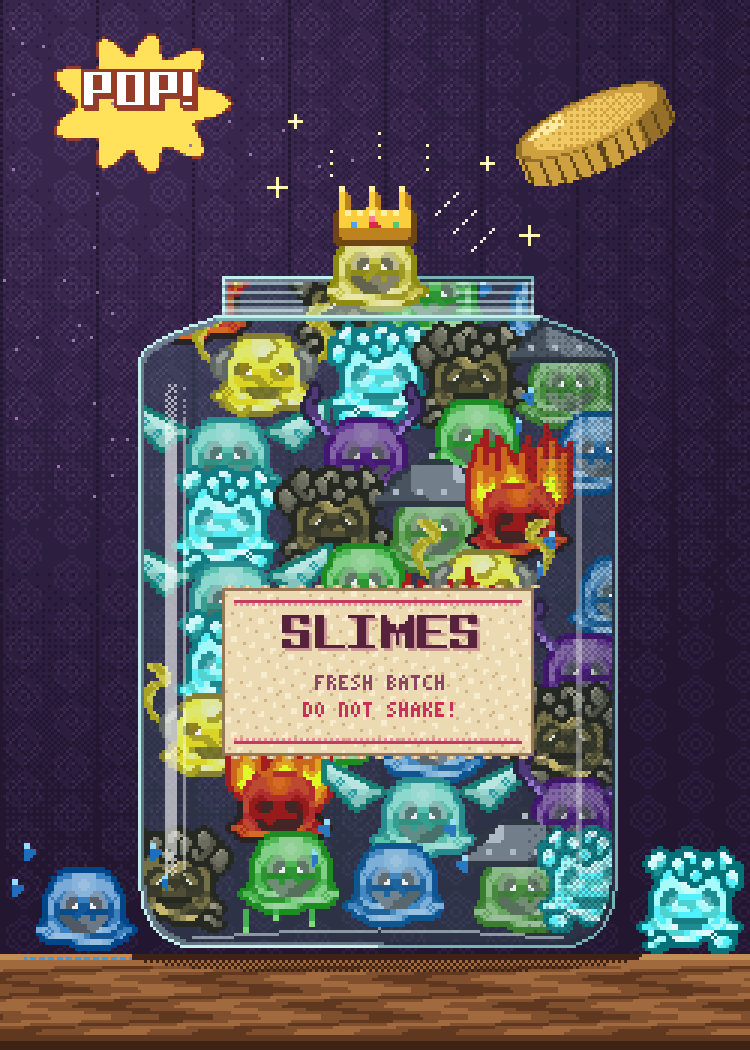
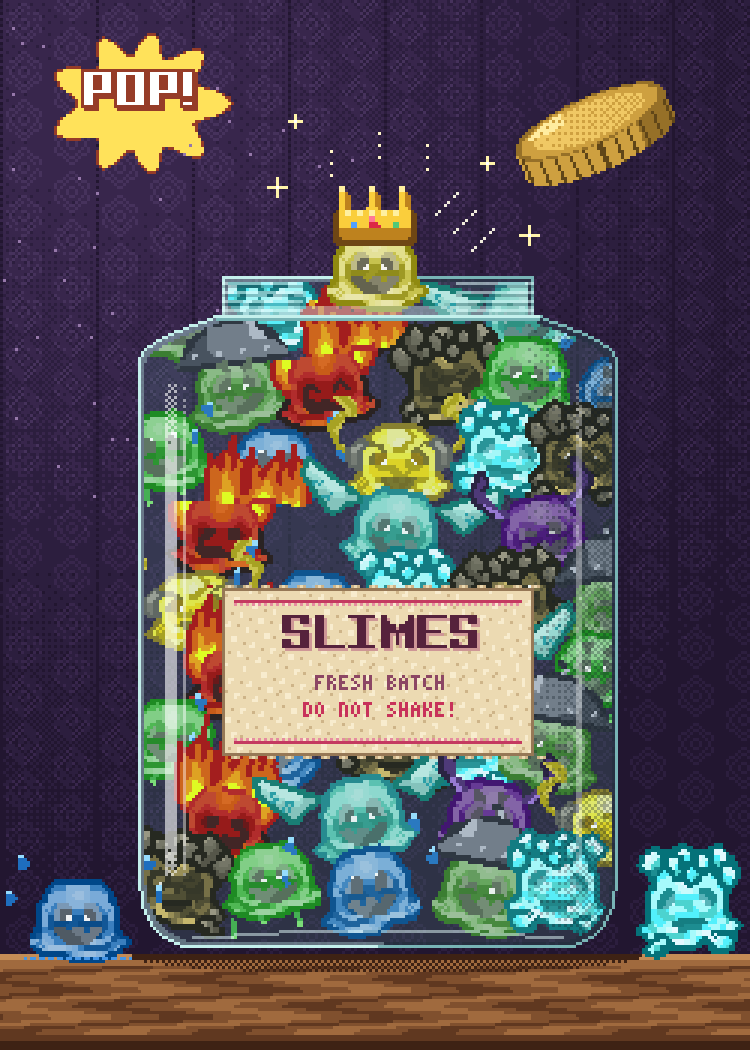
Slime jar: per-exemplar variation (tilt, squash, expression, flame direction)
Claude-Session: https://claude.ai/code/session_01VrcjmiCcwnRFzcWeEK63jM

Changed region(s): [[0.0, 0.2438, 0.828, 0.9143], [0.8587, 0.7924, 1.0, 0.9143], [0.0307, 0.7924, 0.0613, 0.8229]]

diff --git a/data/sleeve-proposals/generator/slimes2.py b/data/sleeve-proposals/generator/slimes2.py
@@ -101,3 +101,132 @@ if __name__=='__main__':
     for k in KINDS:
         s=scale2x(make(k)); cv2_.paste(s,x,2); x+=s.shape[1]+4
     cv2_.save(SP+'/slimes2.png',3)
+
+# ---------------- per-exemplar variation ----------------
+# eye boxes (x0,y0,x1,y1 inclusive, native coords of make(kind)), found by inspecting the sprites
+def find_eyes(a):
+    """dark blobs inside the body (not touching transparency) in the middle band -> eye boxes (left,right)"""
+    h,w=a.shape[:2]; op=a[...,3]>0
+    L=lum(a[...,:3].astype(float))
+    med=np.median(L[op])
+    inner=cv2.erode(op.astype(np.uint8),np.ones((3,3),np.uint8))>0
+    dark=inner&(L<med*0.62)
+    num,lab,st,cen=cv2.connectedComponentsWithStats(dark.astype(np.uint8),connectivity=8)
+    ys,xs=np.where(op); top,bot=ys.min(),ys.max()
+    cands=[]
+    for i in range(1,num):
+        x,y,ww,hh,area=st[i]
+        cy=y+hh/2
+        if 1<=area<=12 and ww<=4 and hh<=3 and top+(bot-top)*0.25<cy<top+(bot-top)*0.75:
+            cands.append((x,y,x+ww-1,y+hh-1,cen[i][0]))
+    cands.sort(key=lambda c:c[4])
+    if len(cands)>=2:
+        # pick the pair most symmetric around the body centre
+        cx=(xs.min()+xs.max())/2; best=None
+        for i in range(len(cands)):
+            for j in range(i+1,len(cands)):
+                a_,b_=cands[i],cands[j]
+                if a_[4]<cx<b_[4] and abs(a_[1]-b_[1])<=1:
+                    sc=abs((a_[4]+b_[4])/2-cx)
+                    if best is None or sc<best[0]: best=(sc,a_,b_)
+        if best: return best[1][:4],best[2][:4]
+    return None
+_BODY_EYES=((5,4,6,6),(9,4,10,6))
+_PADS={'slimy':(2,2),'splashy':(5,5),'hardy':(1,7),'shiny':(1,7),'shadowy':(3,6)}
+EYES={'sparky':((9,15,11,16),(16,15,18,16)),'fiery':((14,19,16,20),(19,19,21,20)),
+      'icy':((4,9,6,10),(12,9,13,10)),'rocky':((7,9,9,11),(12,9,14,11)),'cloudy':((14,8,15,10),(18,8,19,10))}
+for k_,(px_,py_) in _PADS.items():
+    EYES[k_]=tuple((x0+px_,y0+py_,x1+px_,y1+py_) for (x0,y0,x1,y1) in _BODY_EYES)
+def set_expression(a,expr,rng,kind=None):
+    eyes=EYES.get(kind) if kind else find_eyes(a)
+    if eyes is None or expr=='normal': return a
+    a=a.copy(); L=lum(a[...,:3].astype(float))
+    op=a[...,3]>0
+    body=tuple(int(v) for v in np.median(a[op][:,:3],axis=0))
+    def eyecol(box):
+        x0,y0,x1,y1=box; sub=a[y0:y1+1,x0:x1+1,:3].reshape(-1,3)
+        return tuple(int(v) for v in sub[np.argmin(lum(sub.astype(float)))])
+    def neighbour_body(box):
+        x0,y0,x1,y1=box
+        cand=[a[y0-1,x] for x in range(x0,x1+1)]+[a[y1+1,x] for x in range(x0,x1+1)]
+        cand=[c[:3] for c in cand if c[3]>0]
+        return tuple(int(v) for v in np.median(cand,axis=0)) if cand else body
+    def clear(box):
+        x0,y0,x1,y1=box
+        fill=neighbour_body(box)
+        # also clear bright glints right next to the eye
+        for y in range(y0-1,y1+2):
+            for x in range(x0-1,x1+2):
+                if 0<=y<a.shape[0] and 0<=x<a.shape[1] and a[y,x,3]:
+                    if (x0<=x<=x1 and y0<=y<=y1) or L[y,x]>230: a[y,x,:3]=fill
+    def closed(box,happy=True):
+        c=eyecol(box); x0,y0,x1,y1=box
+        clear(box)
+        w=x1-x0+1; yb=y1
+        if happy and w>=3:   # ^ shape
+            for x in range(x0,x1+1): a[yb if x in (x0,x1) else yb-1,x,:3]=c
+        else:
+            for x in range(x0,x1+1): a[yb,x,:3]=c
+    le,re=eyes
+    if expr=='closed': closed(le); closed(re)
+    elif expr=='wink': closed(re if rng.rand()<0.5 else le)
+    elif expr=='look':
+        # move the glint: brightest pixel near eyes to the other side
+        for box in (le,re):
+            x0,y0,x1,y1=box; c=eyecol(box)
+            for y in range(y0,y1+1):
+                for x in range(x0,x1+1): a[y,x,:3]=c
+            gx=x0 if rng.rand()<0.5 else x1
+            a[y0,gx,:3]=(250,250,250)
+    elif expr=='angry':
+        c=eyecol(le)
+        for box,s in ((le,1),(re,-1)):
+            x0,y0,x1,y1=box
+            xs_=[x0,x1] if s>0 else [x1,x0]
+            if y0-2>=0:
+                a[y0-2,xs_[0],:3]=c; a[y0-1,xs_[1],:3]=c
+                mid=(x0+x1)//2; a[y0-1 if s>0 else y0-2, mid,:3]=c
+    return a
+def flame_variant(a,rng):
+    """Fiery: bend/mirror the flame crown (rows above the body)"""
+    a=a.copy(); h,w=a.shape[:2]
+    top=15  # first body row of the fiery sprite
+    fl=a[:top].copy(); body=a[top:]
+    mode=rng.choice(['bendL','bendR','mirror','tall'])
+    if mode=='mirror': fl=fl[:,::-1]
+    out=np.zeros_like(fl)
+    for y in range(top):
+        k=top-y
+        if mode=='bendL': s=-int(k*0.2)
+        elif mode=='bendR': s=int(k*0.2)
+        else: s=0
+        row=np.roll(fl[y],s,axis=0)
+        if s>0: row[:s]=0
+        elif s<0: row[s:]=0
+        out[y]=row
+    if mode=='tall':
+        out=np.zeros_like(fl); out[:-2]=fl[2:]; out[:3]=0
+        # stretch: duplicate middle rows upward
+        out=np.concatenate([fl[2:6],fl[4:]],axis=0)[:top]
+    a[:top]=out
+    a[top:]=body
+    return a
+def rotsprite(a,angle,sy=1.0):
+    """RotSprite-style rotation at 2x: scale2x x3 (8x) -> rotate nearest -> sample to 2x"""
+    pad=4
+    a=np.pad(a,((pad,pad),(pad,pad),(0,0)))
+    s8=scale2x(scale2x(scale2x(a)))
+    h,w=s8.shape[:2]
+    M=cv2.getRotationMatrix2D((w/2,h*0.8),angle,1.0)
+    M[1]*=sy; M[1,2]+=h*0.8*(1-sy)
+    r=cv2.warpAffine(s8,M,(w,h),flags=cv2.INTER_NEAREST,borderMode=cv2.BORDER_CONSTANT,borderValue=(0,0,0,0))
+    out=r[2::4,2::4].copy()
+    out[out[...,3]<128]=0; out[...,3]=np.where(out[...,3]>0,255,0)
+    ys,xs=np.where(out[...,3]>0)
+    return out[ys.min():ys.max()+1,xs.min():xs.max()+1]
+def variant(kind,rng):
+    a=make(kind)
+    if kind=='fiery': a=flame_variant(a,rng)
+    a=set_expression(a,rng.choice(['normal','normal','closed','wink','look','angry']),rng,kind)
+    ang=rng.uniform(-11,11); sy=rng.uniform(0.9,1.06)
+    return rotsprite(a,ang,sy)

diff --git a/data/sleeve-proposals/generator/v2_04_slimejar.py b/data/sleeve-proposals/generator/v2_04_slimejar.py
@@ -1,6 +1,6 @@
 from px2 import *
 from font35 import text35, width35
-from slimes2 import make, KINDS
+from slimes2 import make, KINDS, variant
 random.seed(4)
 W,H=W2,H2
 cv=C2((40,28,54))
@@ -92,7 +92,7 @@ def blit(dst,s,x,y,flip=False):
             if s[yy,xx,3]:
                 X,Y=x+xx,y+yy
                 if 0<=X<W and 0<=Y<H: dst[Y,X]=s[yy,xx]
-cache={k:scale2x(make(k)) for k in KINDS}
+vrng=np.random.RandomState(42)
 order=['rocky','slimy','splashy','hardy','icy','fiery','cloudy','shadowy','sparky','slimy','splashy','rocky','icy','hardy','fiery','shadowy','cloudy','slimy','sparky','splashy','icy','rocky','hardy','fiery','cloudy','shadowy','slimy','splashy','sparky','icy','rocky','hardy','fiery']
 placed=[]; idx=0
 yb=JBOT-3; row=0
@@ -100,7 +100,7 @@ while yb>JTOP-6:
     x=JX0-6+(row%2)*18
     while x<JX1-14:
         k=order[idx%len(order)]; idx+=1
-        s=cache[k]
+        s=variant(k,vrng)
         placed.append((yb,x+random.randint(-3,3),s,random.random()<0.5))
         x+=s.shape[1]-8+random.randint(-2,2)
     yb-=24; row+=1
@@ -214,8 +214,8 @@ text35(cv,'DO NOT SHAKE!',126,ly0+38,(200,50,90),center=True)
 ic=make('slimy')
 
 # ---------- escaped slimes on the shelf ----------
-e1=scale2x(make('splashy')); cv.paste(e1,2,SY-e1.shape[0]+3)
-e2=scale2x(make('icy')); cv.paste(e2[:,::-1],W-e2.shape[1]-2,SY-e2.shape[0]+2)
+e1=variant('splashy',vrng); cv.paste(e1,2,SY-e1.shape[0]+3)
+e2=variant('icy',vrng); cv.paste(e2[:,::-1],W-e2.shape[1]-2,SY-e2.shape[0]+2)
 for x in range(8,44):
     if x%3: cv.px(x,SY+1,(70,150,230))
 # dust motes in lamp light
